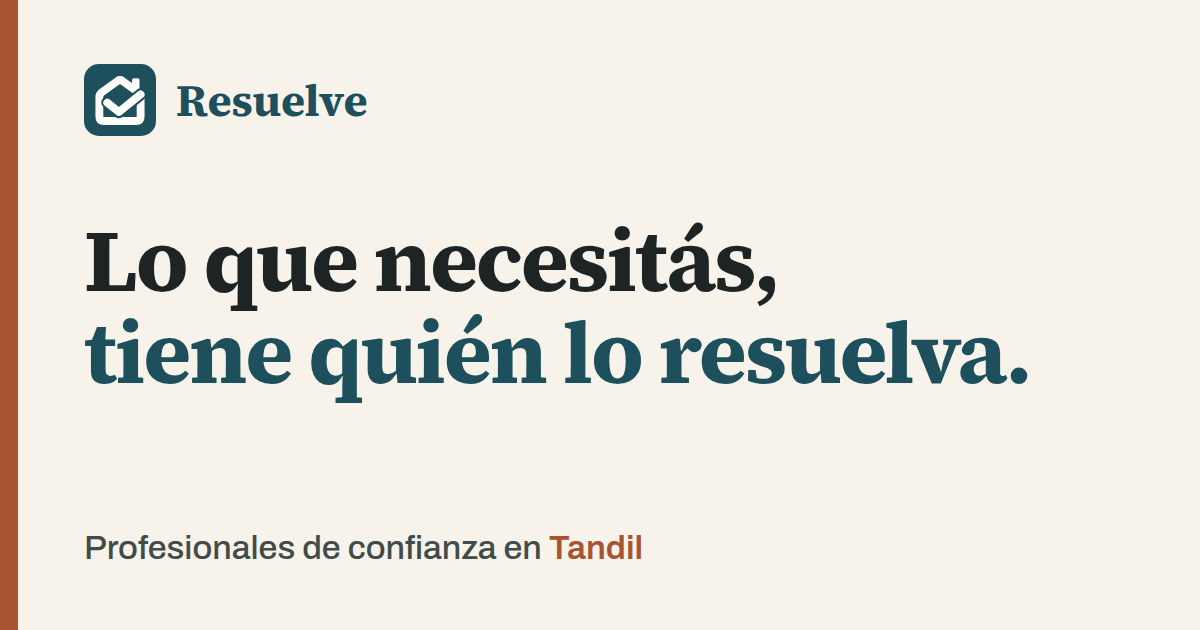
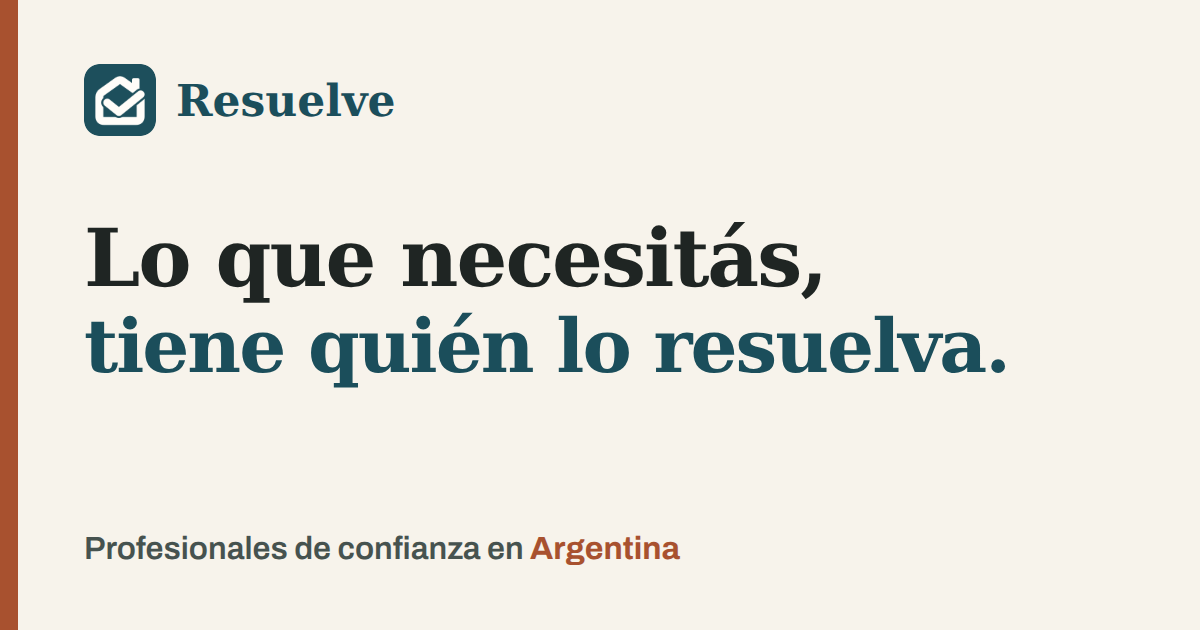
fix: show Argentina in shared link previews (#174)

diff --git a/src/app/core/seo/page-seo.spec.ts b/src/app/core/seo/page-seo.spec.ts
@@ -40,7 +40,7 @@ describe('SEO por ruta', () => {
     expect(meta.getTag('property="og:title"')?.content).toBe('Pública · Resuelve');
     expect(meta.getTag('property="og:url"')?.content).toBe(`${location.origin}/publica`);
     expect(meta.getTag('property="og:locale"')?.content).toBe('es_AR');
-    expect(meta.getTag('property="og:image"')?.content).toBe(`${location.origin}/og-image.png`);
+    expect(meta.getTag('property="og:image"')?.content).toBe(`${location.origin}/og-image.png?v=argentina-20261021`);
     expect(meta.getTag('property="og:image:width"')?.content).toBe('1200');
     expect(meta.getTag('name="twitter:card"')?.content).toBe('summary_large_image');
   });
@@ -49,7 +49,7 @@ describe('SEO por ruta', () => {
     await router.navigateByUrl('/publica');
     expect(meta.getTag('name="twitter:title"')?.content).toBe('Pública · Resuelve');
     expect(meta.getTag('name="twitter:description"')?.content).toBe('Descripción pública');
-    expect(meta.getTag('name="twitter:image"')?.content).toBe(`${location.origin}/og-image.png`);
+    expect(meta.getTag('name="twitter:image"')?.content).toBe(`${location.origin}/og-image.png?v=argentina-20261021`);
     const crumbs = JSON.parse(document.getElementById('seo-breadcrumbs')!.textContent!);
     expect(crumbs.itemListElement.map((i: { name: string }) => i.name)).toEqual(['Resuelve', 'Pública']);
     expect(crumbs.itemListElement[1].item).toBe(`${location.origin}/publica`);
@@ -111,7 +111,7 @@ describe('SEO del perfil público', () => {
     expect((head('link[rel="canonical"]') as HTMLLinkElement).href).toBe(`${location.origin}/p/ana-gomez`);
     expect(meta.getTag('property="og:site_name"')?.content).toBe('Resuelve');
     // Sin foto de perfil: imagen de marca, nunca un preview vacío.
-    expect(meta.getTag('property="og:image"')?.content).toBe(`${location.origin}/og-image.png`);
+    expect(meta.getTag('property="og:image"')?.content).toBe(`${location.origin}/og-image.png?v=argentina-20261021`);
     expect(document.head.innerHTML).not.toMatch(/@|tel:|\+54/);
   });
 

diff --git a/tools/og-image.html b/tools/og-image.html
@@ -1,0 +1,22 @@
+<!doctype html>
+<html lang="es-AR">
+<meta charset="utf-8">
+<meta name="viewport" content="width=1200, initial-scale=1">
+<title>Resuelve — imagen para compartir en Argentina</title>
+<style>
+  @font-face { font-family: Serif; src: url('../node_modules/@fontsource-variable/source-serif-4/files/source-serif-4-latin-wght-normal.woff2'); font-weight: 200 900; }
+  @font-face { font-family: Archivo; src: url('../node_modules/@fontsource-variable/archivo/files/archivo-latin-wght-normal.woff2'); font-weight: 100 900; }
+  * { box-sizing: border-box; }
+  html, body { margin: 0; width: 1200px; height: 630px; overflow: hidden; }
+  body { background: #f7f3eb; color: #1f2523; border-left: 18px solid #a8512f; padding: 64px 66px; }
+  header { display: flex; align-items: center; gap: 20px; color: #1b4e5b; font: 700 44px Serif, serif; }
+  img { width: 72px; height: 72px; border-radius: 16px; }
+  h1 { margin: 76px 0 0; font: 700 80px/1.15 Serif, serif; letter-spacing: -2px; }
+  h1 span { display: block; color: #1b4e5b; font-size: 74px; white-space: nowrap; }
+  p { position: absolute; left: 84px; bottom: 64px; margin: 0; font: 600 32px Archivo, sans-serif; color: #46524f; }
+  strong { color: #a8512f; font-weight: 700; }
+</style>
+<header><img src="../public/logo-96.png" alt="">Resuelve</header>
+<h1>Lo que necesitás,<span>tiene quién lo resuelva.</span></h1>
+<p>Profesionales de confianza en <strong>Argentina</strong></p>
+</html>

diff --git a/src/app/core/seo/page-seo.ts b/src/app/core/seo/page-seo.ts
@@ -5,6 +5,8 @@ import { ActivatedRouteSnapshot, NavigationEnd, Router, TitleStrategy } from '@a
 import { filter } from 'rxjs';
 import { environment } from '../../../environments/environment';
 import { PublicLinks } from '../acquisition/public-links';
+import { SHARE_IMAGE } from './share-image';
+export { SHARE_IMAGE } from './share-image';
 
 /**
  * SEO por ruta (`data.seo`). Regla única y conservadora:
@@ -17,8 +19,6 @@ import { PublicLinks } from '../acquisition/public-links';
 export type RouteSeo = { description?: string } | 'profile';
 
 const SITE_NAME = 'Resuelve';
-/** Imagen para compartir (1200×630, public/og-image.png): WhatsApp, redes y buscadores. */
-export const SHARE_IMAGE = '/og-image.png';
 
 @Injectable({ providedIn: 'root' })
 export class PageSeo {
@@ -77,7 +77,7 @@ export class PageSeo {
       social['og:image'] = origin + SHARE_IMAGE;
       social['og:image:width'] = '1200';
       social['og:image:height'] = '630';
-      social['og:image:alt'] = 'Resuelve: profesionales de confianza en tu ciudad';
+      social['og:image:alt'] = 'Resuelve: profesionales de confianza en Argentina';
     }
     for (const [property, content] of Object.entries(social)) this.meta.updateTag({ property, content });
     this.meta.updateTag({ name: 'twitter:card', content: url ? 'summary_large_image' : 'summary' });

diff --git a/api/service-page.ts b/api/service-page.ts
@@ -2,6 +2,7 @@ import { readFile } from 'node:fs/promises';
 import { join } from 'node:path';
 import type { IncomingMessage, ServerResponse } from 'node:http';
 import { environment } from '../src/environments/environment';
+import { SHARE_IMAGE } from '../src/app/core/seo/share-image';
 import {
   LANDING_PROFESSIONALS_LIMIT,
   LandingPlace,
@@ -113,7 +114,7 @@ export function serviceDocument(
 ): string {
   const copy = landingCopy(service, place);
   const url = `${origin}${landingPath(service, place)}`;
-  const image = `${origin}/og-image.png`;
+  const image = `${origin}${SHARE_IMAGE}`;
   // Localidad sin profesionales del servicio: se puede ver y compartir, pero no se indexa (ni canonical).
   const indexable = landingIndexable(place, placeProfessionals);
   const tags =

diff --git a/api/public-profile.ts b/api/public-profile.ts
@@ -2,6 +2,7 @@ import { readFile } from 'node:fs/promises';
 import { join } from 'node:path';
 import type { IncomingMessage, ServerResponse } from 'node:http';
 import { environment } from '../src/environments/environment';
+import { SHARE_IMAGE } from '../src/app/core/seo/share-image';
 
 type PublicProfileMeta = {
   displayName: string;
@@ -80,7 +81,7 @@ export async function profileDocument(
   let image = hasAvatar ? profile.avatarUrl! : '';
   if (!image) {
     try {
-      image = `${new URL(canonical).origin}/og-image.png`;
+      image = `${new URL(canonical).origin}${SHARE_IMAGE}`;
     } catch {
       image = '';
     }

diff --git a/src/app/core/seo/share-image.ts b/src/app/core/seo/share-image.ts
@@ -1,0 +1,2 @@
+/** Marca nacional, 1200×630. Versionar al cambiar la pieza para renovar su URL en redes. */
+export const SHARE_IMAGE = '/og-image.png?v=argentina-20261021';

diff --git a/README.md b/README.md
@@ -81,7 +81,7 @@ npm test           # Vitest
   - **Pie:** `FOOTER_SERVICE_LINKS` (lista fija y chica, un test la ata a `SERVICE_GUIDES`) enlaza "Plomeros", "Gasistas"… (páginas nacionales) desde el HTML prerenderizado de todas las páginas públicas.
 - **`/llms.txt`** (`public/llms.txt`): Markdown con un H1, qué es Resuelve y un enlace absoluto a cada servicio (un test exige uno por guía). **`/.well-known/*`** queda fuera del rewrite de la SPA (404 real): no publicamos `ai-catalog.json` porque Resuelve no expone herramientas para agentes; antes el rewrite devolvía la app y Lighthouse lo marcaba inválido.
 - **Perfiles `/p/:slug`:** `api/public-profile.ts` (bots) y `ProfileSeo` (navegador) aplican la misma política: perfil **activo con un servicio publicable** = indexable, con canonical al slug (sin `?src=`), Open Graph, Twitter Card y JSON-LD `ProfessionalService` (nombre, oficio, zona general = las localidades que cubre, valoración **real** solo si hay reseñas; nunca contacto, dirección ni coordenadas). **Pausado o sin servicio publicable = `noindex, follow`** (el enlace y el QR siguen abriendo) y fuera del sitemap. Slug inexistente = 404 real con `X-Robots-Tag: noindex`.
-- **Imagen para compartir:** `public/og-image.png` (1200×630, marca + titular del inicio) es el `og:image` de las páginas públicas y de los perfiles sin foto; con foto de perfil se usa la foto. `index.html` lleva JSON-LD `Organization` + `WebSite` solo con datos verdaderos (nombre, URL `https://resuelve.com.ar/`, logo, `areaServed` Argentina; sin contacto hasta que haya casilla oficial). Si cambia el titular del inicio, regenerar la imagen.
+- **Imagen para compartir:** `public/og-image.png` (1200×630, marca + titular del inicio + "Profesionales de confianza en Argentina") es el `og:image` de las páginas públicas y de los perfiles sin foto; con foto de perfil se usa la foto. La URL versionada sale de `core/seo/share-image.ts`, compartida por Angular y los adaptadores de bots. Fuente editable: `tools/og-image.html` (fuentes del proyecto; capturar a 1200×630 después de cargar las fuentes). Al cambiar la pieza, regenerar el PNG y versionar su URL; las previews ya guardadas por redes pueden conservar caché hasta una nueva lectura. `index.html` lleva JSON-LD `Organization` + `WebSite` solo con datos verdaderos (nombre, URL `https://resuelve.com.ar/`, logo, `areaServed` Argentina; sin contacto hasta que haya casilla oficial).
 - **`/sitemap.xml`** (`api/sitemap.ts`): páginas públicas + `GET /api/v1/professionals/sitemap` (solo `slug` y `updatedAt` de perfiles activos con servicio publicable y cobertura; tope 5.000). Si el backend duerme, publica las páginas estáticas con caché corto. **`/robots.txt`** (`api/robots.ts`): permite lo público, bloquea `/pro/`, `/admin/`, `/mis-*`, `/perfil`, `/solicitud`, `/presupuesto`, `/profesionales`, login/registro y `/api/`, y apunta al sitemap. robots.txt no es seguridad: las rutas privadas además exigen sesión y llevan `noindex`.
 - **Dominio canónico y HSTS (`vercel.json`):** `www.resuelve.com.ar` redirige 308 a `https://resuelve.com.ar` conservando la ruta (requiere que `www` esté agregado como dominio del proyecto en Vercel). `Strict-Transport-Security: max-age=31536000` (un año), sin `includeSubDomains` ni `preload`: no se fuerza HTTPS en subdominios que hoy no controlamos desde acá.
 - **Headers (`vercel.json`):** `X-Content-Type-Options`, `Referrer-Policy`, `X-Frame-Options: DENY`, `Permissions-Policy` (geolocalización, cámara y micrófono solo propios: el micrófono es del dictado por voz) y `X-Robots-Tag: noindex` en las rutas privadas. CSP: pendiente post-lanzamiento (Angular inyecta estilos y un `onload` en línea, hay que validarla en un navegador real contra producción antes de forzarla).
